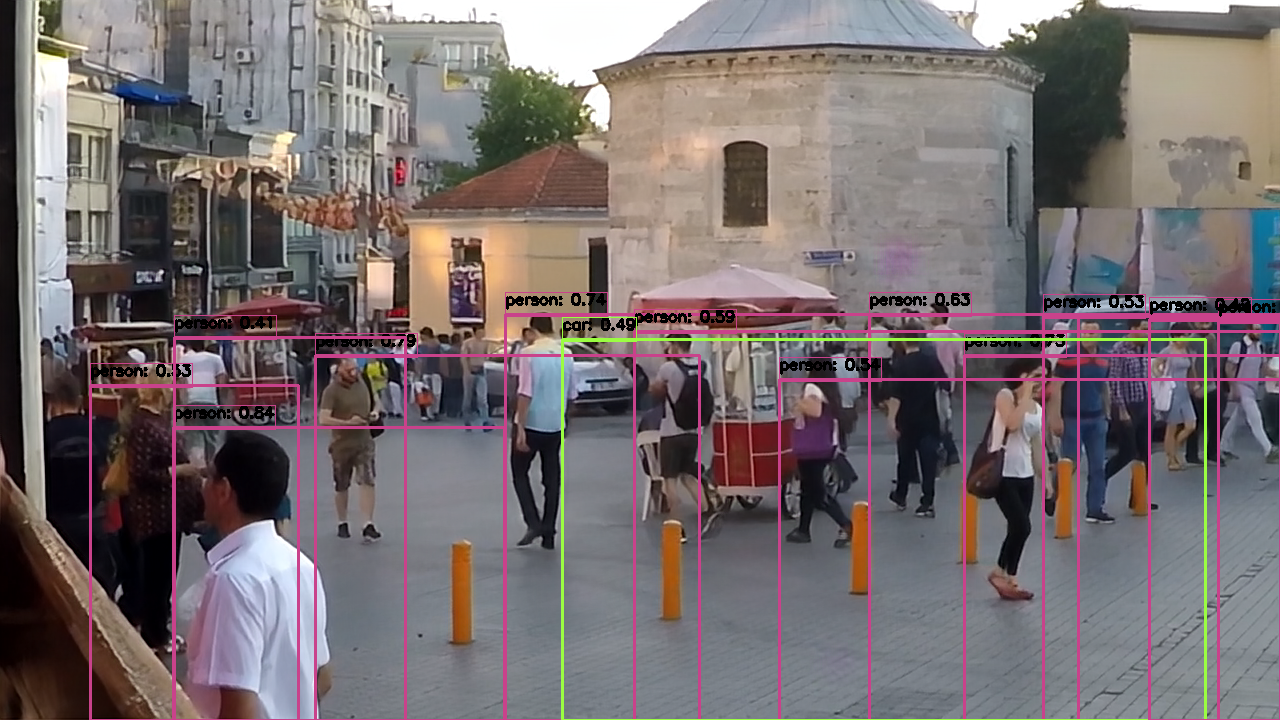
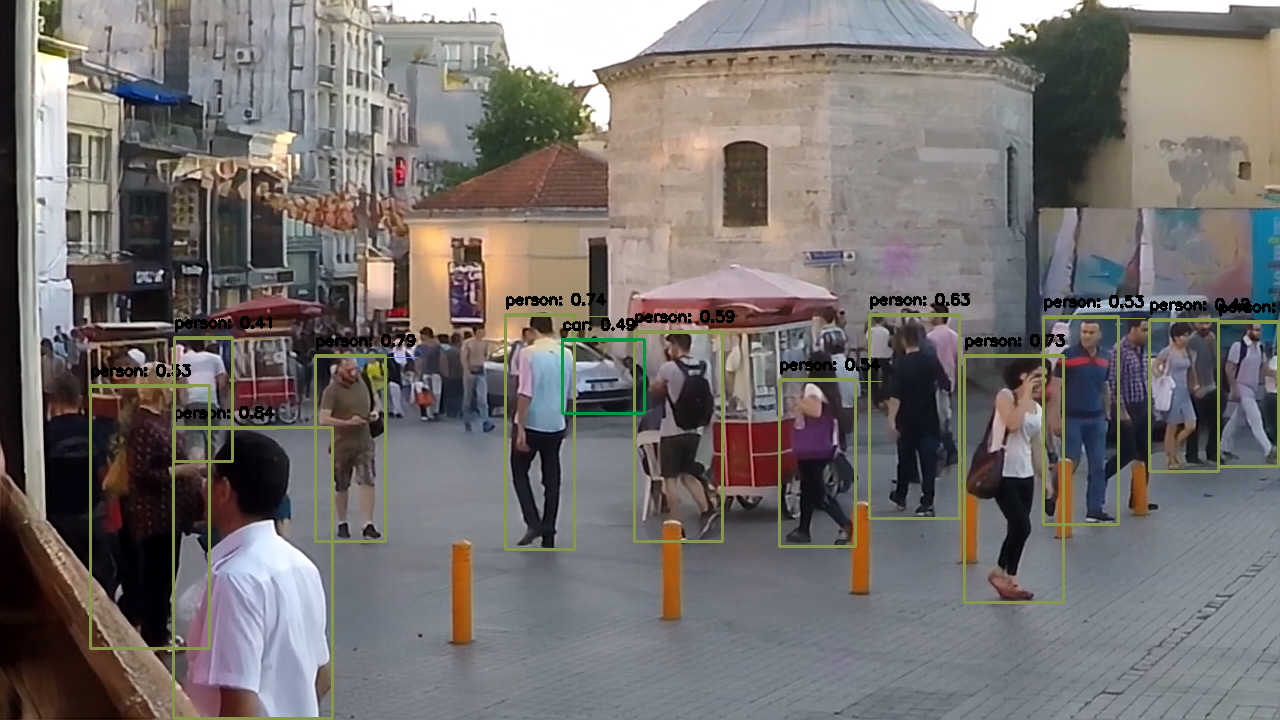
modify yolo detection

diff --git a/Debluring/Deblure2e/GANyolo.py b/Debluring/Deblure2e/GANyolo.py
@@ -52,8 +52,9 @@ class yolo11onnx:
 
     def draw_detections(self,img,box,score,class_id):
         x1,y1,w,h = box
+        print(f"read height {h}")
         color = self.color_palette[class_id]
-        cv2.rectangle(img,(int(x1),int(y1),int(x1+w),int(y1+h)),color,2)
+        cv2.rectangle(img,(int(x1),int(y1)),(int(x1+w),int(y1+h)),color,2)
         label = f"{self.name_classes[class_id]}: {score:.2f}"
 
         (label_w, label_h), _ = cv2.getTextSize(label,cv2.FONT_HERSHEY_SIMPLEX,0.5,1)
@@ -61,9 +62,9 @@ class yolo11onnx:
         label_y = y1-10 if y1-10 > label_h else y1+10
 
         cv2.rectangle(
-            img, (label_x,label_y-label_h),(label_x+label_w,label_y+label_h),color,
+            img, (label_x,label_y+label_h),(label_x+label_w,label_y+label_h),color,
         )
-        cv2.putText(img,label,(label_x,label_y),cv2.FONT_HERSHEY_SIMPLEX,0.5,(0,0,0),1)
+        cv2.putText(img,label,(label_x,label_y),cv2.FONT_HERSHEY_SIMPLEX,0.5,(0,0,0),2)
 
 
 if __name__ == '__main__':
@@ -169,7 +170,7 @@ if __name__ == '__main__':
                 box = boxes[i]
                 score = scores[i]
                 class_id = class_ids[i]
-                print(yolo_processor.name_classes[class_id])
+                # print(yolo_processor.name_classes[class_id])
                 yolo_processor.draw_detections(d_img,box,score,class_id)
 
             cv2.imwrite(os.path.join(final_out_dir,name),d_img)
